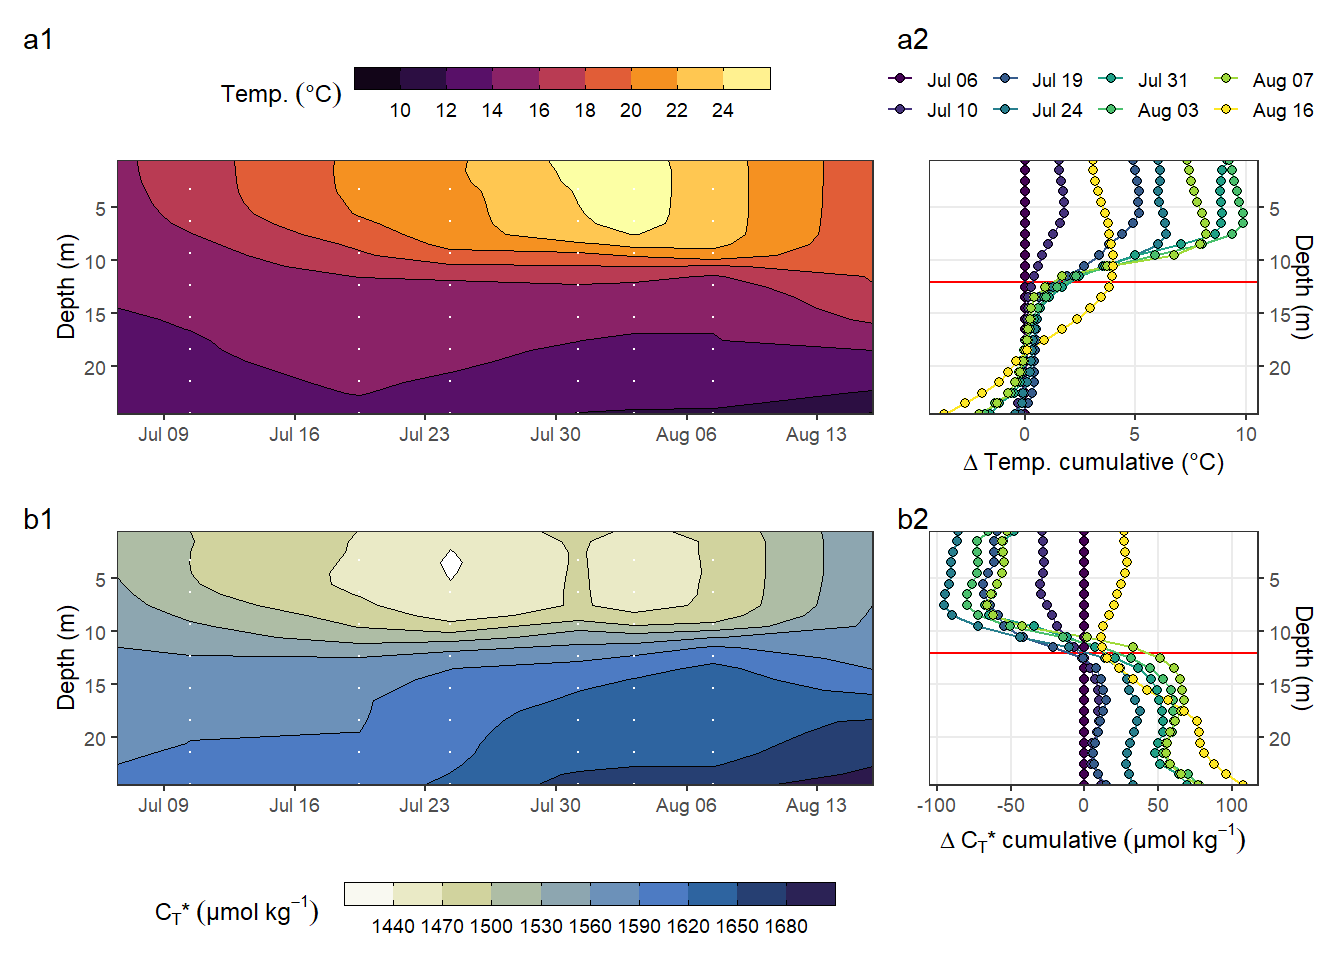
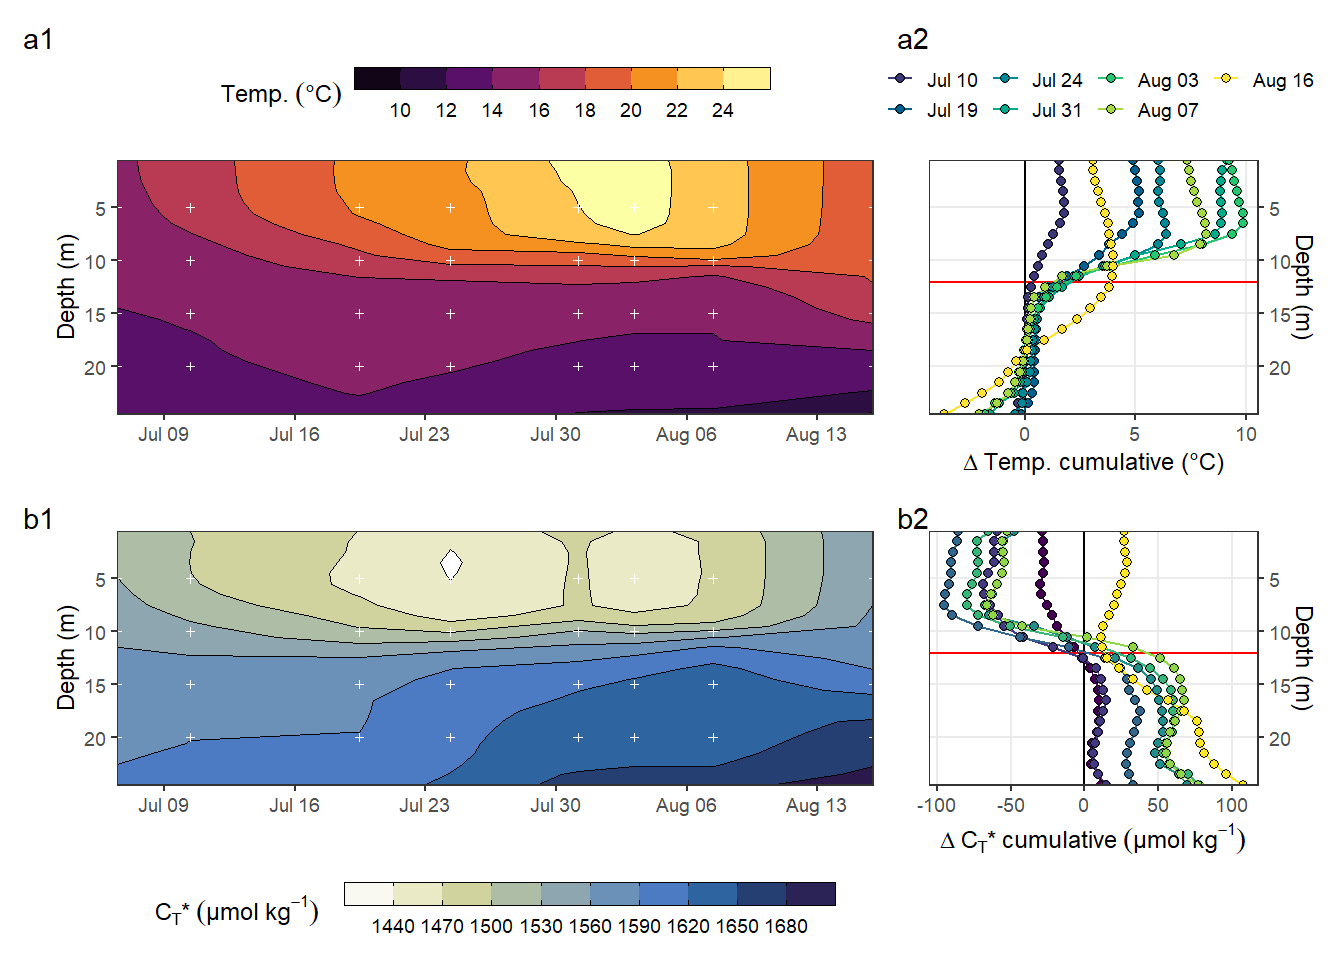
Build site.

diff --git a/docs/NCP_best_guess.html b/docs/NCP_best_guess.html
@@ -451,7 +451,7 @@ div.tocify {
 
 <h1 class="title toc-ignore">NCP best guess</h1>
 <h4 class="author">Jens Daniel Müller</h4>
-<h4 class="date">18 May, 2021</h4>
+<h4 class="date">30 June, 2021</h4>
 
 </div>
 
@@ -476,7 +476,7 @@ div.tocify {
 <div class="tab-content">
 <div id="summary" class="tab-pane fade in active">
 <p>
-<strong>Last updated:</strong> 2021-05-18
+<strong>Last updated:</strong> 2021-06-30
 </p>
 <p>
 <strong>Checks:</strong> <span class="glyphicon glyphicon-ok text-success" aria-hidden="true"></span> 7 <span class="glyphicon glyphicon-exclamation-sign text-danger" aria-hidden="true"></span> 0
@@ -567,16 +567,16 @@ This reproducible <a href="http://rmarkdown.rstudio.com">R Markdown</a> analysis
 <div class="panel panel-default">
 <div class="panel-heading">
 <p class="panel-title">
-<a data-toggle="collapse" data-parent="#workflowr-checks" href="#strongRepositoryversionstrongahrefhttpsgithubcomjensdanielmuellerBloomSailtree00a2574e1550a750d3bea97b1555ffb1b5d1c25etargetblank00a2574a"> <span class="glyphicon glyphicon-ok text-success" aria-hidden="true"></span> <strong>Repository version:</strong> <a href="https://github.com/jens-daniel-mueller/BloomSail/tree/00a2574e1550a750d3bea97b1555ffb1b5d1c25e" target="_blank">00a2574</a> </a>
+<a data-toggle="collapse" data-parent="#workflowr-checks" href="#strongRepositoryversionstrongahrefhttpsgithubcomjensdanielmuellerBloomSailtreeaa9fd37a60907ca39628de2d44bda078fd284054targetblankaa9fd37a"> <span class="glyphicon glyphicon-ok text-success" aria-hidden="true"></span> <strong>Repository version:</strong> <a href="https://github.com/jens-daniel-mueller/BloomSail/tree/aa9fd37a60907ca39628de2d44bda078fd284054" target="_blank">aa9fd37</a> </a>
 </p>
 </div>
[2 lines of base64/hex data omitted]
 <div class="panel-body">
 <p>
 Great! You are using Git for version control. Tracking code development and connecting the code version to the results is critical for reproducibility.
 </p>
 <p>
-The results in this page were generated with repository version <a href="https://github.com/jens-daniel-mueller/BloomSail/tree/00a2574e1550a750d3bea97b1555ffb1b5d1c25e" target="_blank">00a2574</a>. See the <em>Past versions</em> tab to see a history of the changes made to the R Markdown and HTML files.
+The results in this page were generated with repository version <a href="https://github.com/jens-daniel-mueller/BloomSail/tree/aa9fd37a60907ca39628de2d44bda078fd284054" target="_blank">aa9fd37</a>. See the <em>Past versions</em> tab to see a history of the changes made to the R Markdown and HTML files.
 </p>
 <p>
 Note that you need to be careful to ensure that all relevant files for the analysis have been committed to Git prior to generating the results (you can use <code>wflow_publish</code> or <code>wflow_git_commit</code>). workflowr only checks the R Markdown file, but you know if there are other scripts or data files that it depends on. Below is the status of the Git repository when the results were generated:
@@ -589,39 +589,7 @@ Ignored files:
     Ignored:    output/Plots/Figures_publication/.tmp.drivedownload/
 
 Untracked files:
-    Untracked:  data_os-2020-120_submission.zip
-
-Unstaged changes:
-    Modified:   code/Workflowr_project_managment.R
-    Modified:   output/Plots/Figures_publication/Appendix/Fig_A1.pdf
-    Modified:   output/Plots/Figures_publication/Appendix/Fig_A2.pdf
-    Modified:   output/Plots/Figures_publication/Appendix/Fig_B1.pdf
-    Modified:   output/Plots/Figures_publication/Appendix/Fig_B1.png
-    Modified:   output/Plots/Figures_publication/Appendix/Fig_B2.pdf
-    Modified:   output/Plots/Figures_publication/Appendix/Fig_B2.png
-    Modified:   output/Plots/Figures_publication/Appendix/Fig_C1.pdf
-    Modified:   output/Plots/Figures_publication/Appendix/Fig_C2.pdf
-    Modified:   output/Plots/Figures_publication/Appendix/Fig_C3.pdf
-    Modified:   output/Plots/Figures_publication/Appendix/Fig_C3.png
-    Modified:   output/Plots/Figures_publication/Appendix/Fig_C4.pdf
-    Modified:   output/Plots/Figures_publication/Article/Fig_1.pdf
-    Modified:   output/Plots/Figures_publication/Article/Fig_1.png
-    Modified:   output/Plots/Figures_publication/Article/Fig_2.pdf
-    Modified:   output/Plots/Figures_publication/Article/Fig_2.png
-    Modified:   output/Plots/Figures_publication/Article/Fig_3.pdf
-    Modified:   output/Plots/Figures_publication/Article/Fig_3.png
-    Modified:   output/Plots/Figures_publication/Article/Fig_4.pdf
-    Modified:   output/Plots/Figures_publication/Article/Fig_5.pdf
-    Modified:   output/Plots/Figures_publication/Article/Fig_6.pdf
-    Modified:   output/Plots/NCP_best_guess/tm_profiles_ID_pCO2_tem_sal_CT.pdf
-    Modified:   output/Plots/NCP_best_guess/tm_profiles_pCO2_tem_sal_CT.pdf
-    Modified:   output/Plots/response_time/all_plots.pdf
-    Modified:   output/Plots/response_time/profiles_pCO2.pdf
-    Modified:   output/Plots/response_time/profiles_pCO2_delta_grid.pdf
-    Modified:   output/Plots/response_time/profiles_pCO2_delta_rel_grid.pdf
-    Modified:   output/Plots/response_time/profiles_pCO2_grid.pdf
-    Modified:   output/Plots/response_time/tau_determination_pCO2_corr_flushperiods_nls.pdf
-    Modified:   output/Plots/response_time/time_series_depth_pCO2_corr_by_profile.pdf
+    Untracked:  data_bg-2021-40_resubmission.zip
 
 </code></pre>
 <p>
@@ -660,6 +628,40 @@ Message
 </tr>
 </thead>
 <tbody>
+<tr>
+<td>
+Rmd
+</td>
+<td>
+<a href="https://github.com/jens-daniel-mueller/BloomSail/blob/aa9fd37a60907ca39628de2d44bda078fd284054/analysis/NCP_best_guess.Rmd" target="_blank">aa9fd37</a>
+</td>
+<td>
+jens-daniel-mueller
+</td>
+<td>
+2021-06-30
+</td>
+<td>
+adapted plot design
+</td>
+</tr>
+<tr>
+<td>
+html
+</td>
+<td>
+<a href="https://rawcdn.githack.com/jens-daniel-mueller/BloomSail/c8a1425894703f91b67d97297339844f32f9e42b/docs/NCP_best_guess.html" target="_blank">c8a1425</a>
+</td>
+<td>
+jens-daniel-mueller
+</td>
+<td>
+2021-05-18
+</td>
+<td>
+Build site.
+</td>
+</tr>
 <tr>
 <td>
 html
@@ -3896,16 +3898,22 @@ rm(CT_star_delta_mean, CT_star_delta_sd,
 <h2 number="8.1"><span class="header-section-number">8.1</span> Absolute values</h2>
 <pre class="r"><code>bin_CT_star &lt;- 30
 
-p_CT_star_hov &lt;- tm_profiles_ID_long %&gt;%
+grid_raster &lt;- expand_grid(cruise_dates,
+                      dep = seq(5,20,5)) 
+
+p_CT_star_hov &lt;- 
+  tm_profiles_ID_long %&gt;%
   filter(var == &quot;CT_star&quot;) %&gt;%
   ggplot() +
   geom_contour_fill(aes(x = date_time_ID, y = dep, z = value),
                     breaks = MakeBreaks(bin_CT_star),
                     col = &quot;black&quot;,
                     size = 0.1) +
-  geom_vline(aes(xintercept = date_time_ID),
+  geom_point(data = grid_raster,
+             aes(date_time_ID, dep),
              col = &quot;white&quot;,
-             linetype = &quot;1f&quot;) +
+             shape = 3,
+             size = 0.7) +
   scale_fill_scico(
     breaks = MakeBreaks(bin_CT_star),
     guide = &quot;colorstrip&quot;,
@@ -3939,9 +3947,11 @@ p_tem_hov &lt;- tm_profiles_ID_long %&gt;%
                     breaks = MakeBreaks(bin_Tem),
                     col = &quot;black&quot;,
                     size = 0.1) +
-  geom_vline(aes(xintercept = date_time_ID),
+  geom_point(data = grid_raster,
+             aes(date_time_ID, dep),
              col = &quot;white&quot;,
-             linetype = &quot;1f&quot;) +
+             shape = 3,
+             size = 0.7) +
   scale_fill_viridis_c(
     breaks = MakeBreaks(bin_Tem),
     guide = &quot;colorstrip&quot;,
@@ -3965,13 +3975,16 @@ p_tem_hov &lt;- tm_profiles_ID_long %&gt;%
     legend.box.margin = margin(0, 0, 0, 0)
   )
 
-
+cum_cruise_dates &lt;- cruise_dates %&gt;% filter(ID != &quot;180705&quot;)
+viridis_cum_cruise_dates &lt;- hcl.colors(nrow(cruise_dates))[2:8]
 
 p_CT_star_ID_cum &lt;-
   tm_profiles_ID_long %&gt;%
-  filter(var == &quot;CT_star&quot;) %&gt;%
+  filter(var == &quot;CT_star&quot;,
+         ID != &quot;180705&quot;) %&gt;%
   ggplot(aes(value_cum, dep, col = ID, fill = ID)) +
   geom_hline(yintercept = 12, col = &quot;red&quot;) +
+  geom_vline(xintercept = 0) +
   geom_path() +
   geom_point(shape = 21, col = &quot;black&quot;) +
   scale_y_reverse(expand = c(0, 0),
@@ -3980,25 +3993,33 @@ p_CT_star_ID_cum &lt;-
     -1
   }))),
   y = &quot;Depth (m)&quot;) +
-  scale_color_viridis_d(labels = cruise_dates$date_ID, guide = FALSE) +
-  scale_fill_viridis_d(labels = cruise_dates$date_ID, guide = FALSE) +
+  scale_color_viridis_d(labels = cum_cruise_dates$date_ID, guide = FALSE) +
+  scale_fill_viridis_d(labels = cum_cruise_dates$date_ID, guide = FALSE) +
+  # scale_color_manual(values = viridis_cum_cruise_dates,
+  #                    labels = cum_cruise_dates$date_ID,
+  #                    guide = FALSE) +
+  # scale_fill_manual(values = viridis_cum_cruise_dates,
+  #                   labels = cum_cruise_dates$date_ID,
+  #                   guide = FALSE) +
   theme(panel.grid.minor = element_blank())
-
-
 
 p_tem_ID_cum &lt;-
   tm_profiles_ID_long %&gt;%
-  filter(var == &quot;tem&quot;) %&gt;%
+  filter(var == &quot;tem&quot;,
+         ID != &quot;180705&quot;) %&gt;%
   ggplot(aes(value_cum, dep, col = ID, fill = ID)) +
   geom_hline(yintercept = 12, col = &quot;red&quot;) +
+  geom_vline(xintercept = 0) +
   geom_path() +
   geom_point(shape = 21, col = &quot;black&quot;) +
   scale_y_reverse(expand = c(0, 0),
                   position = &quot;right&quot;) +
   labs(x = expression(Delta~&quot;Temp. cumulative (\u00B0C)&quot;),
        y = &quot;Depth (m)&quot;) +
-  scale_color_viridis_d(labels = cruise_dates$date_ID) +
-  scale_fill_viridis_d(labels = cruise_dates$date_ID) +
+  scale_color_manual(values = viridis_cum_cruise_dates,
+                     labels = cum_cruise_dates$date_ID) +
+  scale_fill_manual(values = viridis_cum_cruise_dates,
+                     labels = cum_cruise_dates$date_ID) +
   theme(
     legend.position = &quot;top&quot;,
     legend.title = element_blank(),
@@ -4038,7 +4059,8 @@ ggsave(
   units = &quot;mm&quot;
 )
 
-rm(p_CT_star_hov, bin_CT_star, p_tem_hov, bin_Tem, p_CT_star_ID_cum, p_tem_ID_cum)</code></pre>
+rm(p_CT_star_hov, bin_CT_star, p_tem_hov, bin_Tem, p_CT_star_ID_cum, p_tem_ID_cum,
+   cum_cruise_dates, viridis_cum_cruise_dates, grid_raster)</code></pre>
 </div>
 <div id="incremental-changes-1" class="section level2" number="8.2">
 <h2 number="8.2"><span class="header-section-number">8.2</span> Incremental changes</h2>
